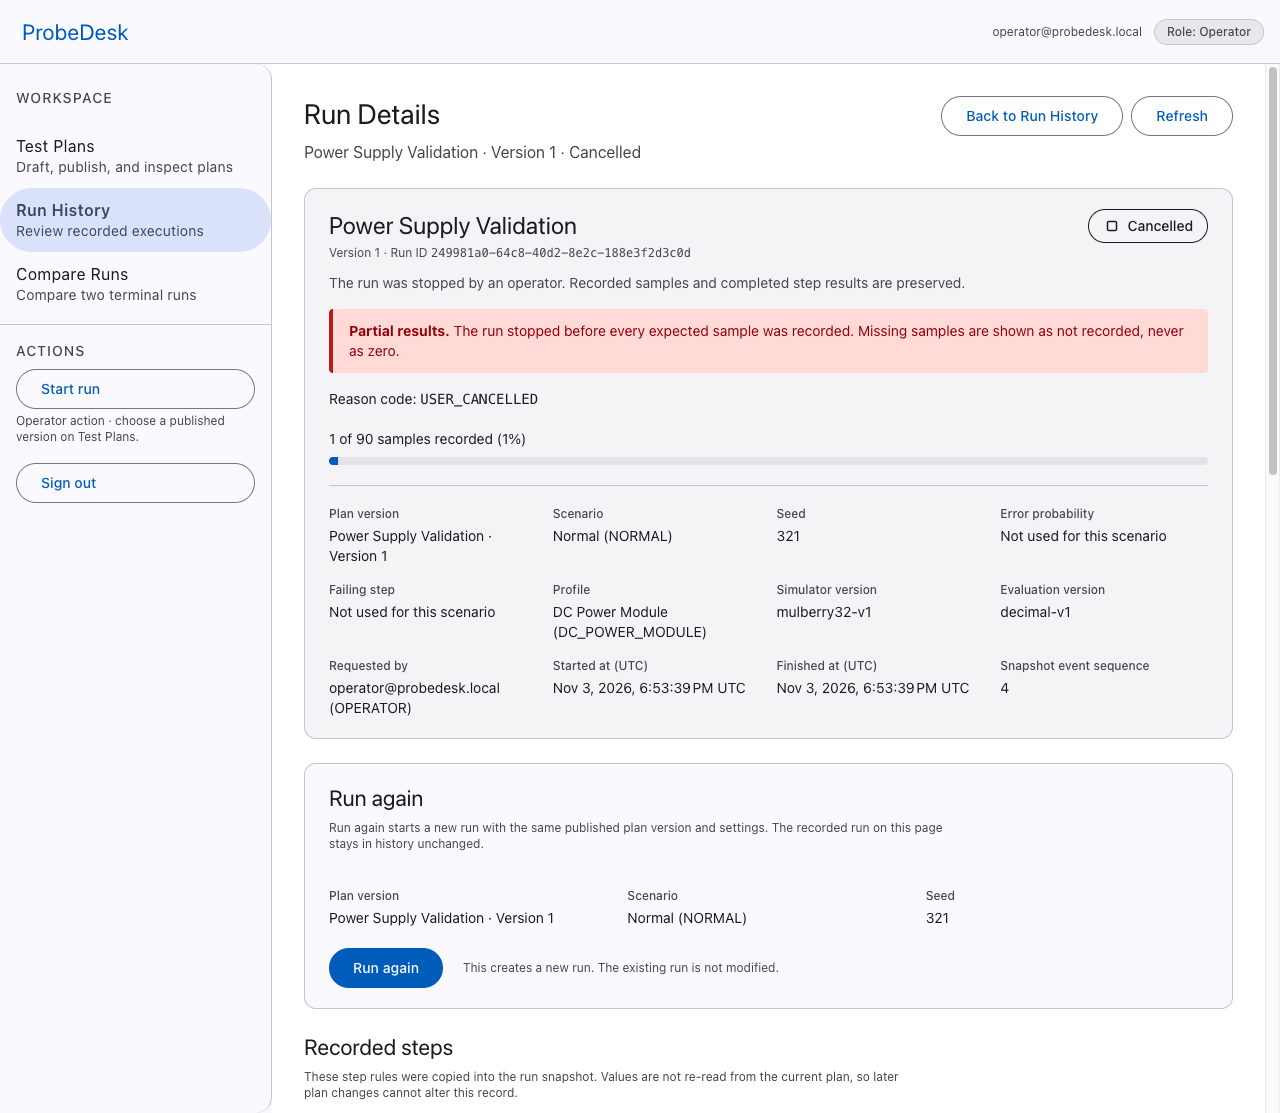
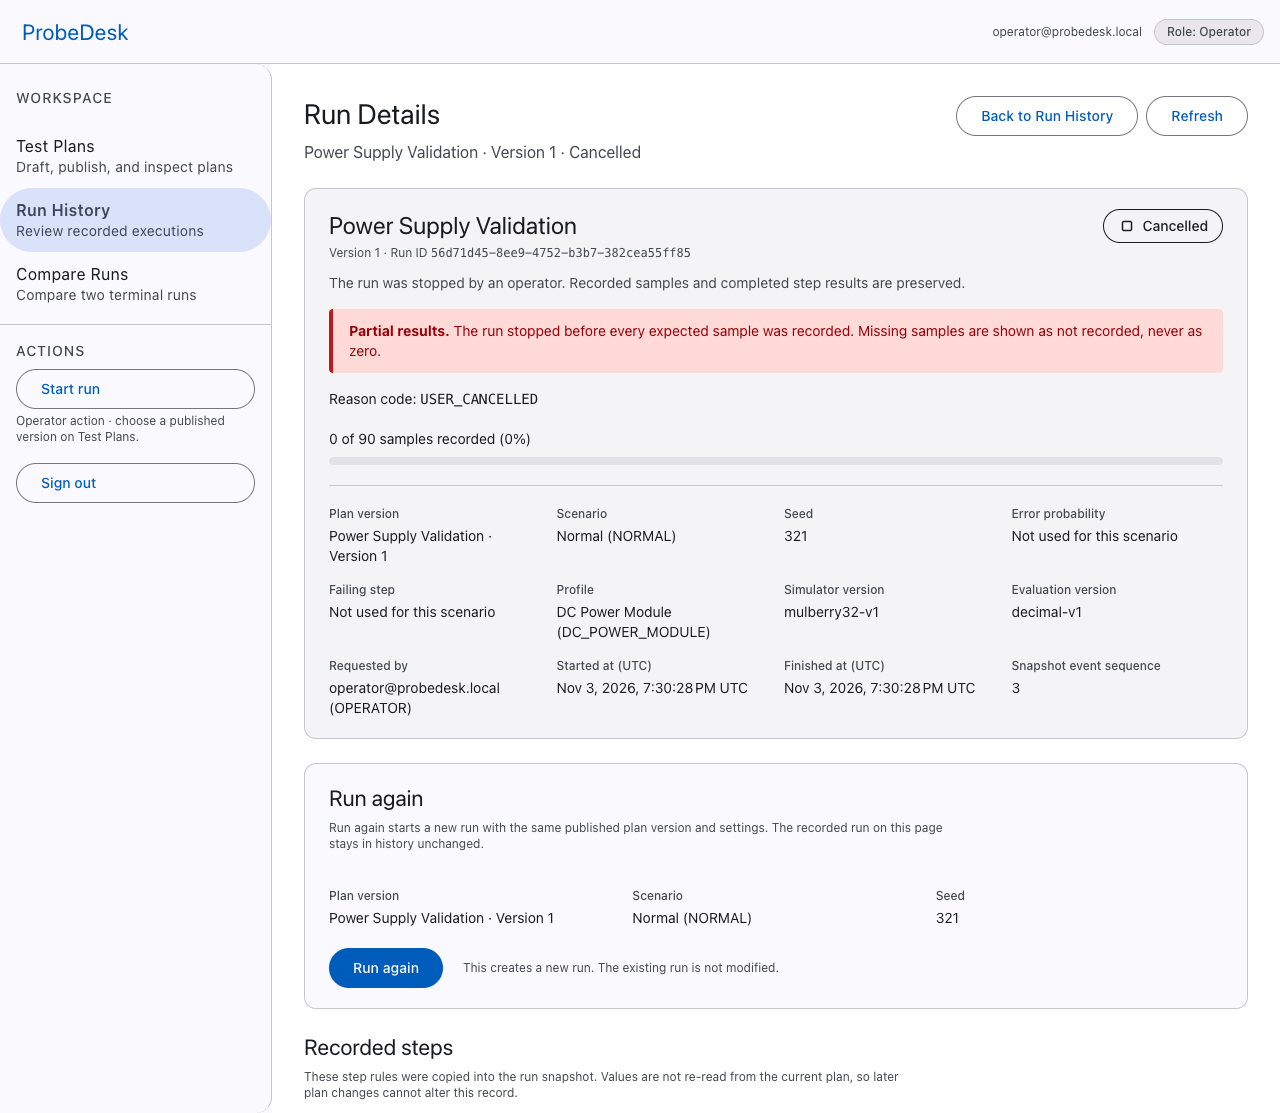
test: rerun phase 3 UI flow through app navigation and fix evidence

diff --git a/docs/tasks/P3-10.md b/docs/tasks/P3-10.md
@@ -24,7 +24,7 @@ Snapshot özeti, refresh, rol kontrollü cancel ve Run Again akışını oluştu
 ## Doğrulama
 
 - [x] Bileşen/HTTP hata testleri; terminal-null outcome gösterimi.
-- [ ] Aşama 3 başlat/sonuç/iptal/kesinti demosu (gerçek API + tarayıcı; ilk smoke sırasında B1 nedeniyle akış elle URL ile tamamlandı, düzeltme sonrası yeniden çalıştırılmadı).
+- [x] Aşama 3 başlat/sonuç/iptal/kesinti demosu (gerçek API + tarayıcı). B1 düzeltmesinden sonra yeniden çalıştırıldı: uygulama start sonrası `/runs/:id` detayına kendisi yönlendirdi, `/live` placeholder'ı detaya bağlantı verdi, iptal dialogu ve Cancelled sonucu gerçek tarayıcıda doğrulandı. Kanıt: `docs/evidence/phase-3-demo.md`, `scripts/phase-3-ui-check.mjs`.
 
 Uygulama komutları [test sözleşmesindeki](../testing.md#planlanan-komutlar) planlanan giriş noktalarıdır; henüz var oldukları veya çalıştırıldıkları iddia edilmez. İlgili davranışlar için anlamlı test kullanılır; ilgisiz kontrol tekrarları eklenmez.
 
@@ -47,8 +47,8 @@ Uygulama komutları [test sözleşmesindeki](../testing.md#planlanan-komutlar) p
 - Kapatılan bulgular:
   - **B1 (High):** Run Again başarısı artık `/runs/:runId` gerçek detay ekranına gidiyor; `RUN_ALREADY_ACTIVE` bağlantısı da `/runs/:activeRunId` adresine gidiyor. P4 `/runs/:runId/live` placeholder'ı "View run details" bağlantısıyla detay ekranına erişim sağlıyor. Başlat → sonuç → iptal → Run Again akışı uygulama içinde tamamlanabilir; testler hedef rotayı ve detay ekranının snapshot isteğini doğruluyor.
   - **B2 (Medium):** `isPartialResult` yalnız `recordedSampleCount < expectedSampleCount` olduğunda `true`. Tam örnekli `CANCELLED`/`ERROR`/`INTERRUPTED` çalıştırmada "eksik örnek" metni gösterilmiyor; bunun yerine "All expected samples were recorded. The run stopped during finalization or because of a technical error..." açıklaması gösteriliyor. Tam örnekli CANCELLED/ERROR ve kısmi çalıştırmalar testlerle kapsandı.
-- Demo durumu: Gerçek API/Chrome smoke sonradan `phase-3-demo.md` ve `phase-3-review.md` içinde kaydedildi; ancak B1 nedeniyle detay ekranına uygulamanın kendi yönlendirmesiyle değil elle URL değiştirilerek ulaşıldı. B1 düzeltmesi sonrası başlat → detay → iptal → Run Again akışının gerçek tarayıcıda yeniden çalıştırılması bekliyor; bu nedenle demo maddesi işaretlenmedi.
-- Düzeltmeler ve ertelenen işler: B1/B2 bu düzeltme turunda kapatıldı (yeniden inceleme bekliyor). Gerçek API/tarayıcı smoke ve Aşama 3 demosu düzeltme sonrası yeniden yapılmadı; `docs/tasks/README.md` ve `docs/roadmap.md` bu worker'ın sahiplik alanı dışında bırakıldı. Canlı ekran P4-04 kapsamında placeholder olarak kaldı, ancak artık `/runs/:runId` detayına bağlantı veriyor.
+- Demo durumu: Düzeltme sonrası gerçek tarayıcı turu yeniden çalıştırıldı; start → detay → iptal akışı uygulamanın kendi yönlendirmesiyle tamamlandı, Run Again düğmesi terminal detayda görünür. Kanıt: `docs/evidence/phase-3-demo.md`.
+- Düzeltmeler ve ertelenen işler: B1/B2/B9 kapatıldı ve düzeltme sonrası gerçek Chrome turu yapıldı. Canlı ekran P4-04 kapsamında placeholder olarak kaldı, ancak `/runs/:runId` detayına bağlantı veriyor. `docs/tasks/README.md` ve `docs/roadmap.md` bu worker'ın sahiplik alanı dışında bırakıldı.
 - Nihai görev/aşama kabulü: Bekliyor. Bu kart `Accepted` değildir.
 
 Kapanışta bu alanlar gerçek kayıtlarla güncellenir. İnceleme ve ilgili kanıt olmadan Accepted yapılmaz. [Görev dizini](README.md) ve [yol haritası](../roadmap.md) aynı değişiklikte güncellenir.

diff --git a/docs/evidence/phase-3-demo.md b/docs/evidence/phase-3-demo.md
@@ -51,8 +51,9 @@ Kaydedilmiş 5 örnek korundu, sürdürme yapılmadı, bekleyen adımlar `NOT_RU
 | Başarısız run detayı | Failed, tolerans dışı değer görünür | `Failed`; `0.600000` ölçüm tablosunda; 90 satır; Cancel yok; Run Again var |
 | Başarılı run detayı | Passed | `Passed`; Run Again var |
 | Start Run formu | Sürüm adımları + üç senaryo | 3 adım; NORMAL/FORCED_FAILURE/RANDOM |
-| UI’dan run başlatma | Gerçek `runId` ile live sayfası | `249981a0-…` ile `/runs/:id/live` |
+| UI’dan run başlatma | Gerçek `runId` ile detay ekranı | Uygulama `56d71d45-…` ile `/runs/:id` detayına yönlendirdi |
 | İptal dialogu | Onay ister, iyimser durum yok | “Cancel this run?”; onay sonrası `Cancelled` |
+| `/runs/:id/live` placeholder | Detaya bağlantı | “View run details” → `/runs/56d71d45-…` |
 | İptal sonrası | Cancel gizli, Run Again var | Cancel yok; Run Again var |
 | Konsol | İstisna yok | `exceptions: []` |
 

diff --git a/docs/tasks/P3-09.md b/docs/tasks/P3-09.md
@@ -35,6 +35,8 @@ Uygulama komutları [test sözleşmesindeki](../testing.md#planlanan-komutlar) p
 
 ## İnceleme ve kanıt kaydı
 
+- Düzeltme sonrası gerçek Chrome turu (2026-11-03): formdan NORMAL run başlatıldı, uygulama gerçek `runId` ile `/runs/:id` detayına yönlendirdi; `/live` placeholder'ı detaya bağlantı verdi; iptal dialogu ve Cancelled sonucu doğrulandı. Kanıt: `docs/evidence/phase-3-demo.md`.
+
 - Uygulama commit'i: Henüz yok (ortak checkout; commit/push lead tarafından oluşturulacak).
 - Çalıştırılan kontroller ve gerçek sonuçları (B1/B9 düzeltme turu, 2026-11-03):
   - `npm run lint --workspace apps/web`: `Found 0 warnings and 0 errors.` (71 dosya, 93 kural).
